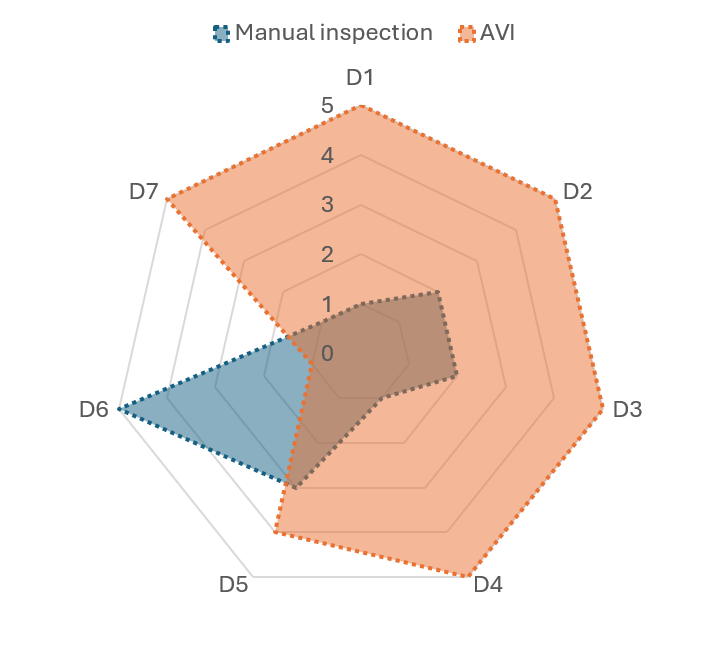
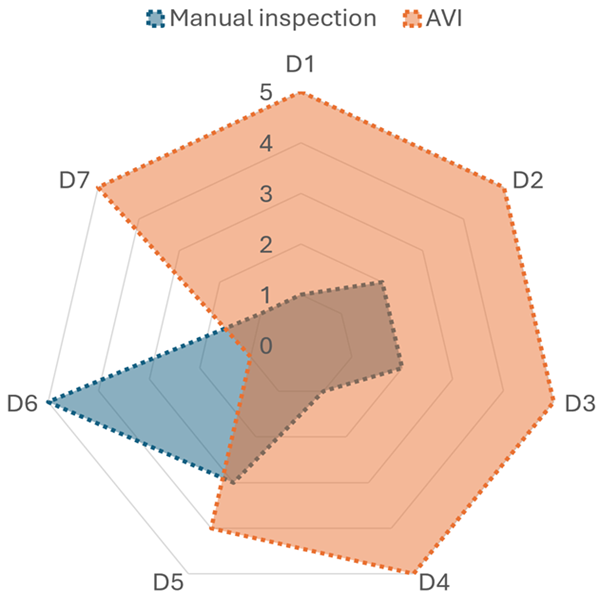
Adds the description for the process flow and a number of improvements to other sections

diff --git a/avi_document.md b/avi_document.md
@@ -1,6 +1,5 @@
 # Automatic visual inspection
 ### Author: Benhur Ortiz-Jaramillo
-### Year: 2026
 
 Automatic visual inspection (AVI) has become a critical component in modern manufacturing and quality control processes. AVI enables the rapid and accurate detection of defects, inconsistencies, and non-compliance with quality standards by using imaging technologies, computational algorithms and robotics. AVI not only enhances product reliability and safety but also significantly reduces operational costs and human error. The scope of AVI spans various industries, including food processing, electronics, masonry, automotive, and pharmaceuticals, among others. Therefore, understanding AVI principles, applications, and benefits is essential for modern industrial automation applications.
 
@@ -10,33 +9,37 @@ The purpose of this document is to provide an overview of AVI, including its def
 
 ### Classical visual inspection
 
+![human-inspector](assets/human-inspector.png)
+
 Before defining what automatic visual inspection involves, it is important to understand what human-based inspection involves (classical visual inspection). Visual inspection is the process of examining products, components, or structures using the human eye; often aided by lighting, magnification, or simple hand tools; to detect flaws, defects, or non-compliance with quality standards. Below we list a few examples of classical visual inspection tasks across different industries.
 
 #### Food processing and sorting
 
 ![eggs-inspection](assets/eggs-inspection.png)
 
-Quality control sorters (line workers) stand alongside moving conveyor belts to manually inspect raw or semi-processed agricultural goods, e.g., fresh fruits, root vegetables, nuts,  bakery items. Their task is to scan for and discard bruised, rotting, or misshapen produce, alongside foreign contaminants, e.g., stones, stems, dirt clumps, or pieces of field debris. Such tasks are common in agribusiness, food packaging plants, frozen food processing, snack food manufacturing, and catering suppliers.
+Quality control sorters (line workers) stand alongside moving conveyor belts to manually inspect raw or semi-processed agricultural goods, e.g., fresh fruits, root vegetables, nuts,  bakery items. Their task is to scan for and discard bruised, rotting, or misshapen produce, alongside foreign contaminants, e.g., stones, stems, dirt clumps, or pieces of field debris. Such tasks are common in agribusiness, food packaging plants, frozen food processing, snack food manufacturing, and catering suppliers. The image in this example was generated using Gemini AI.
 
 #### Plastic parts inspection
 
 ![3d-print-inspection](assets/3d-print-inspection.png)
 
-Machine operators and / or quality control technicians visually inspect molded plastic components, e.g., automotive interior trim, appliance housings, plastic containers, or toys. This is typically done as the produced goods emerge from injection molding presses, extrusion lines or 3D printers. Inspectors check for surface defects such as excess plastic, sink marks, incomplete fills, flow lines, burn marks. Such tasks are common in automotive manufacturing, consumer electronics, toy production, medical device disposable packaging, and plastic injection molding services.
+Machine operators and / or quality control technicians visually inspect molded plastic components, e.g., automotive interior trim, appliance housings, plastic containers, or toys. This is typically done as the produced goods emerge from injection molding presses, extrusion lines or 3D printers. Inspectors check for surface defects such as excess plastic, sink marks, incomplete fills, flow lines, burn marks. Such tasks are common in automotive manufacturing, consumer electronics, toy production, medical device disposable packaging, and plastic injection molding services. The image in this example was generated using Gemini AI.
 
 #### Textile and fabric quality grading
 
 ![textile-inspection](assets/textile-inspection.png)
 
-Textile examiners feed large rolls of woven or knitted fabric through an illuminated inspection machine or board. As the fabric moves past at eye level, inspectors scan for irregularities such as, stains, missing ends, yarn lumps, and shade variations. They measure flaw sizes and apply standardized penalty points to determine if a roll passes quality thresholds. Such tasks are common in apparel and garment manufacturing, home textiles (bedding, curtains, floor coverings), industrial textile filters, and fabric distributors.
+Textile examiners feed large rolls of woven or knitted fabric through an illuminated inspection machine or board. As the fabric moves past at eye level, inspectors scan for irregularities such as, stains, missing ends, yarn lumps, and shade variations. They measure flaw sizes and apply standardized penalty points to determine if a roll passes quality thresholds. Such tasks are common in apparel and garment manufacturing, home textiles (bedding, curtains, floor coverings), industrial textile filters, and fabric distributors. The image in this example was generated using Gemini AI.
 
 #### Structural infrastructure inspection
 
 ![structural-inspection](assets/structural-inspection.png)
 
-Civil engineers and certified structural inspectors conduct visual surveys of critical infrastructure, e.g., concrete bridges, highway overpasses, tunnels, and retaining walls. Using specialized tools like crack-width rulers, inspection hammers, binoculars. They inspect surfaces for signs of structural cracking, rust bleeding from internal rebar corrosion, and joint deterioration. Such tasks are common in civil engineering consulting, municipal public works, state/national transportation departments, structural maintenance contractors, and commercial facility management.
+Civil engineers and certified structural inspectors conduct visual surveys of critical infrastructure, e.g., concrete bridges, highway overpasses, tunnels, and retaining walls. Using specialized tools like crack-width rulers, inspection hammers, binoculars. They inspect surfaces for signs of structural cracking, rust bleeding from internal rebar corrosion, and joint deterioration. Such tasks are common in civil engineering consulting, municipal public works, state/national transportation departments, structural maintenance contractors, and commercial facility management. The image in this example was generated using Gemini AI.
 
 ### Automatic visual inspection
+
+![avi-inspector](assets/avi-inspector.png)
 
 AVI is an industrial quality-control methodology that integrates specialized illumination, optical imaging, and computational algorithms to autonomously, objectively, and continuously evaluate manufactured products for defects, dimensional compliance, and surface anomalies at high production speeds. 
 
@@ -46,29 +49,29 @@ AVI is important because it drives quality assurance, reduces scrap rates, preve
 
 To see how AVI works in practice in textile manufacturing, we can look at Suntech's automated production line, which replaces traditional manual inspection and sorting with a integrated data-driven workflow. First, a visual inspection system uses cameras, controlled lighting, and machine learning to catch fabric flaws in real-time, recording their exact location and severity. Alongside it, another system keeps the material moving by automating edge alignment, tension control, cutting, sampling, and roll-end taping. Afterwards, an automated labeling and sorting system adds tracking barcodes and routes the rolls into the correct quality tiers. From there, a packaging station wraps the rolls in protective plastic. Finally, robotic stackers handle the transport, while linking shop-floor data directly to enterprise software for complete tracking and analytics.
 
-[![Watch the video](https://img.youtube.com/vi/7_0e6BIYZ6M/mqdefault.jpg)](https://youtu.be/7_0e6BIYZ6M)
+[![Watch the video](https://img.youtube.com/vi/7_0e6BIYZ6M/sddefault.jpg)](https://youtu.be/7_0e6BIYZ6M)
 
 #### Automated vision weighing in egg grading
 
 To see how AVI works in practice in food inspection, we can examine Sanovo's automated egg grading workflow, which replaces traditional mechanical scales and physical touch points with a contactless optical module. First, a vision and illumination system uses a built-in sensor to detect incoming eggs while an array of cameras captures detailed images per egg for complete surface coverage. Alongside this optical capture, machine learning algorithms determine the weight of each egg optically while simultaneously analyzing every surface detail in real time to isolate anomalies like hairline cracks and liquid leakers. Finally, a control and classification system allows users to fine-tune detection thresholds adjusting grading parameters for both quality and weight sorting.
 
-[![Watch the video](https://img.youtube.com/vi/MXmqqQa043I/mqdefault.jpg)](https://youtu.be/MXmqqQa043I)
-
-#### Indoor autonomous inspection
-
-To see how autonomous inspection works in practice, we can look at RaSpect's system which replaces traditional manual facility walkthroughs with an integrated data-driven workflow. First, an autonomous navigation and positioning system uses SLAM technology and path planning to build real-time spatial maps. Alongside it, a sensing and visual data acquisition system equips the robot with cameras to capture visual records and structural data from every corner of the facility. Afterwards, a processing system uploads the captured datasets to cloud environments, where machine learning algorithms analyze the information to automatically flag structural defects, wear-and-tear anomalies, and safety hazards. From there, an enterprise and analytics integration platform turns these insights into standardized, repeatable digital surveys that enable long-term trend analysis and simplify compliance checks.
-
-[![Watch the video](https://img.youtube.com/vi/cVAnaEyF7rw/mqdefault.jpg)](https://youtu.be/cVAnaEyF7rw)
+[![Watch the video](https://img.youtube.com/vi/MXmqqQa043I/sddefault.jpg)](https://youtu.be/MXmqqQa043I)
 
 #### Automated inline quality control system
 
 To see how automated inline quality control works in practice, we can look at the AM-Flow AM-Quality system, which replaces traditional manual sampling with a fully integrated scanning workflow. First, a 3D optical sensing system uses laser line profiles to capture complete surface geometry. Simultaneously, a digital inspection engine processes the data, comparing the 3D point-cloud against the reference CAD file to generate a deviation map, calculate dimensional variances, and execute immediate pass/fail evaluations. Finally, a robust reporting and enterprise software ecosystem generates comprehensive per-part metrology reports for complete audit trails.
 
-[![Watch the video](https://vumbnail.com/1019721995_medium.jpg)](https://vimeo.com/1019721995)
+[![Watch the video](https://vumbnail.com/1019721995_large.jpg)](https://vimeo.com/1019721995)
+
+#### Indoor autonomous inspection
+
+To see how autonomous inspection works in practice, we can look at RaSpect's system which replaces traditional manual facility walkthroughs with an integrated data-driven workflow. First, an autonomous navigation and positioning system uses SLAM technology and path planning to build real-time spatial maps. Alongside it, a sensing and visual data acquisition system equips the robot with cameras to capture visual records and structural data from every corner of the facility. Afterwards, a processing system uploads the captured datasets to cloud environments, where machine learning algorithms analyze the information to automatically flag structural defects, wear-and-tear anomalies, and safety hazards. From there, an enterprise and analytics integration platform turns these insights into standardized, repeatable digital surveys that enable long-term trend analysis and simplify compliance checks.
+
+[![Watch the video](https://img.youtube.com/vi/cVAnaEyF7rw/hqdefault.jpg)](https://youtu.be/cVAnaEyF7rw)
 
 ## Comparison between manual and automatic visual inspection
 
-The table below summarizes the key differences between manual visual inspection performed by human operators and automatic visual inspection (AVI) systems across various dimensions of performance, cost, and adaptability. The spider plot below shows a visual comparison of these dimensions, highlighting the strengths and weaknesses of each approach.
+The table below summarizes the key differences between manual visual inspection performed by human operators and automatic visual inspection (AVI) systems across various dimensions of performance, cost, and adaptability. The spider plot below shows a visual comparison of these dimensions, highlighting the strengths and weaknesses of each approach. The plot shows the number of advantages that AVI systems have over manual inspection. The numerical scores in the table were estimated based on observations of past projects and expert judgment.
 
 | **Feature** | **Manual inspection (Human)** | **Score (0-5)** | **Automatic visual inspection (AVI)** | **Score (0-5)** |
 | :--- | :--- | :---: | :--- | :---: |
@@ -84,9 +87,13 @@ The table below summarizes the key differences between manual visual inspection 
 
 ## Visual inspection design process
 
-(1) Image capture -> (2) System calibration -> (3) Image enhancement \& Pre-processing -> (4) Region of Interest \& Object detection -> (5) Feature extraction \& Anomaly detection -> (6) Decision fusion \& Post-processing -> (7) Action \& closed feedback loop
+![design-process](assets/design-process.png)
 
-⚠WARNING: Place holder for the visual inspection design process.⚠
+The AVI process relies on a model that transforms physical manufacturing components into actionable quality decisions. This model is shown in the figure above. The lifecycle begins with (1) image capture, using synchronized industrial cameras, custom lenses, and targeted illumination to convert parts into digital twins. Next, (2) system calibration addresses camera alignment, lighting adjustment, and the correction of geometric to guarantee cross-station integrity. Following acquisition, the digital data is (3) pre-processed through spatial filtering, contrast normalization, and precise alignment to suppress environmental disturbances.
+
+Afterwards, (4) region of interest isolation and object detection separate the target product from its background using segmentation algorithms. Thereafter, (5) feature extraction and anomaly detection modules identify known flaws and anomalies through supervised and unsupervised machine learning models. The resulting data is (6) post-processed and fused with other sensor information for decision making to issue definitive classifications of accept, reject, or escalate. Then, the (7) action and feedback phase coordinates sorting gates, logs metadata in quality tracking frameworks, and utilizes human-in-the-loop interventions to update and retrain models. The process normally also includes a (S)upporting step named model sandbox for testing and validating new algorithms before deployment.
+
+In the following sections, each step of the visual inspection design process is detailed, providing insights into the methodologies, tools, and considerations involved.
 
 ### (1) Image capture
 
@@ -115,3 +122,27 @@ The table below summarizes the key differences between manual visual inspection 
 ### (7) Action and closed feedback loop
 
 ⚠WARNING: Place holder for the feedback loop design process.⚠
+
+### (S) Model sandbox
+
+⚠WARNING: Place holder for the model sandbox design process.⚠
+
+## Past projects overview
+
+⚠WARNING: Place holder for the personal past projects overview design process.⚠
+
+## Conclusions, open problems, and best practices
+
+This section summarizes the key findings, highlights open problems, and provides best practices for implementing an automated visual inspection system.
+
+### Open problems
+
+⚠WARNING: Place holder for the open problems design process.⚠
+
+### Best practices
+
+⚠WARNING: Place holder for the best practices design process.⚠
+
+### Conclusions
+
+⚠WARNING: Place holder for the conclusions design process.⚠
